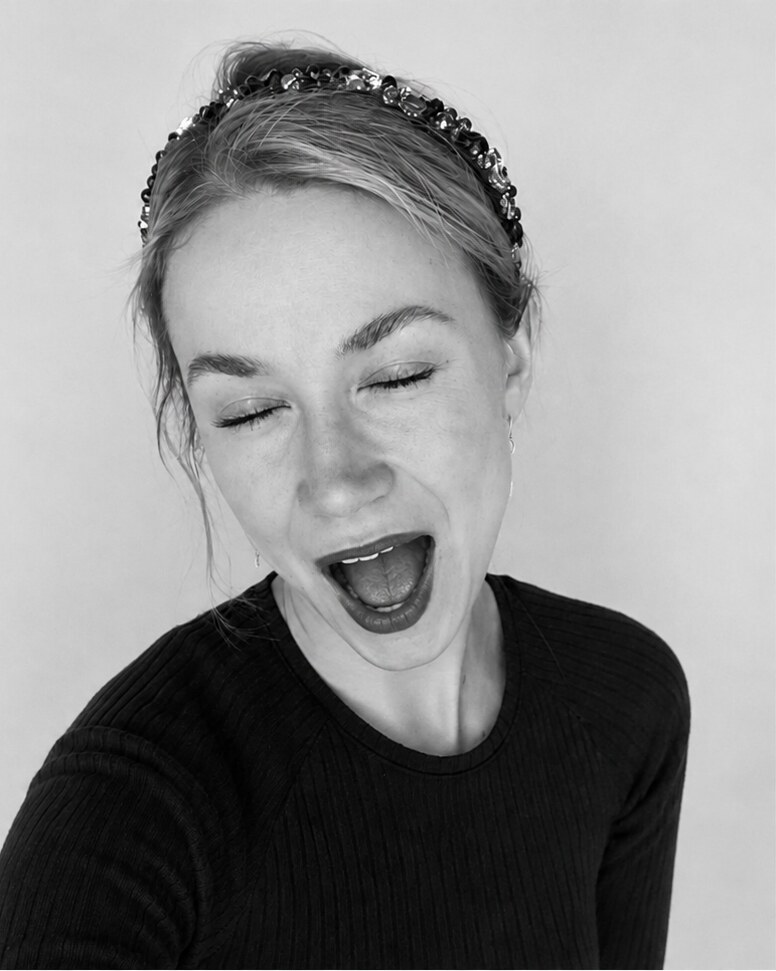
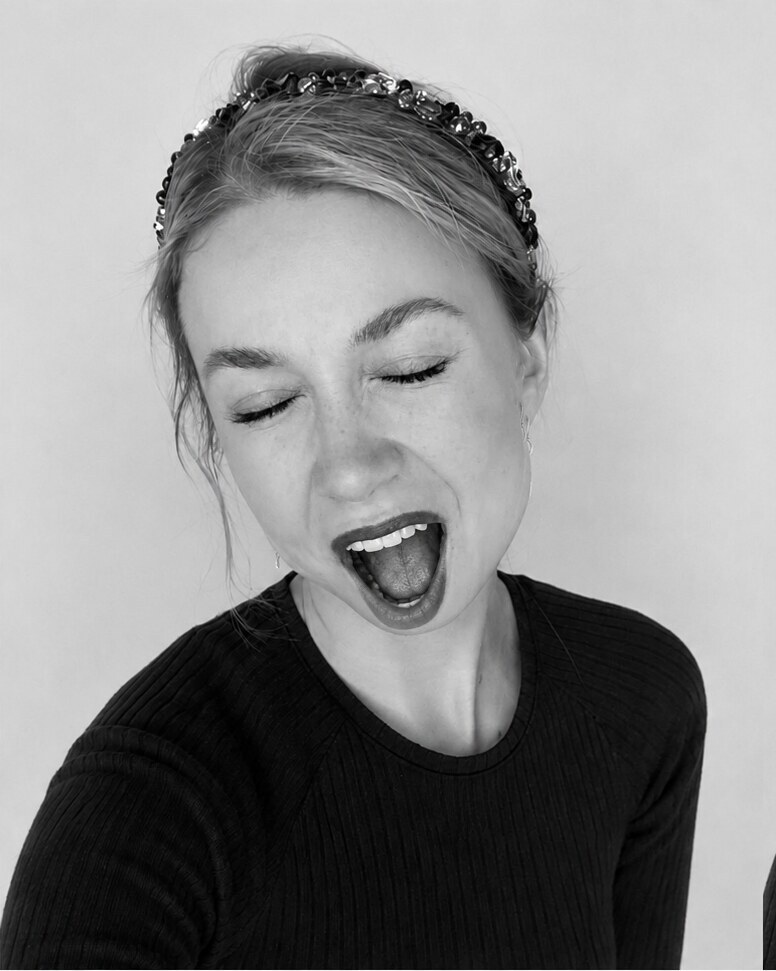
Fix KS hero rock expression

Changed region(s): [[0.0, 0.0309, 0.9278, 1.0], [0.433, 0.309, 0.5876, 0.4016], [0.9588, 0.8651, 1.0, 1.0]]

diff --git a/ks/AGENTS.md b/ks/AGENTS.md
@@ -113,11 +113,12 @@ Below that it is an ordinary flowing document.
 ## The hero portrait
 
 - Two frames cross-fade in the same box: `assets/portrait/calm-*` and
-  `assets/portrait/wink-*`. They are **two halves of one diptych the client
-  drew herself**, already identically framed, so the swap needs no compositing,
-  no scaling and no alignment work — the build just splits, trims and exports
-  them. Do not "improve" the alignment; anything that moves one frame relative
-  to the other breaks the illusion of a single continuous shot.
+  `assets/portrait/wink-*`. The hover expression comes from the client's exact
+  reference in `source-assets/portrait-rock-reference.png`; its face is
+  registered into the calm frame while the background, hair, headband, clothes
+  and crop stay fixed. Do not independently crop, scale or reposition either
+  export — anything outside the facial-expression blend moving between frames
+  breaks the illusion of a single continuous shot.
 - The frame is `aspect-ratio: 776 / 971`, the exact aspect of the source pair,
   and the images are `object-fit: cover` with no `object-position` shift. Zero
   crop means zero drift between the two states.

diff --git a/ks/README.md b/ks/README.md
@@ -19,6 +19,11 @@ The customer stage remains on Cloudflare Workers; production is
 [ks-design.art](https://ks-design.art), served from an isolated Docker Compose
 project on the owner's `cz` server.
 
+The hero's rock-expression source is preserved at
+[`source-assets/portrait-rock-reference.png`](./source-assets/portrait-rock-reference.png).
+The published hover exports keep the calm frame fixed outside the blended
+facial-expression region so the cross-fade reads as one continuous portrait.
+
 ## Source of truth
 
 | Item | Value | Source |
